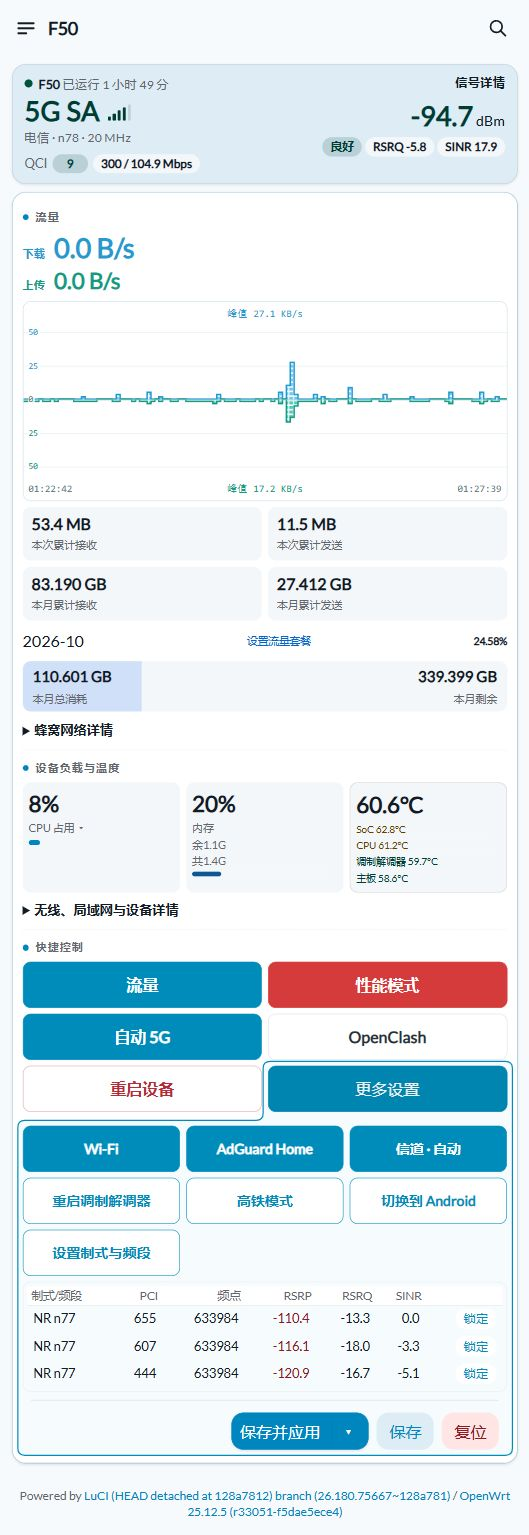
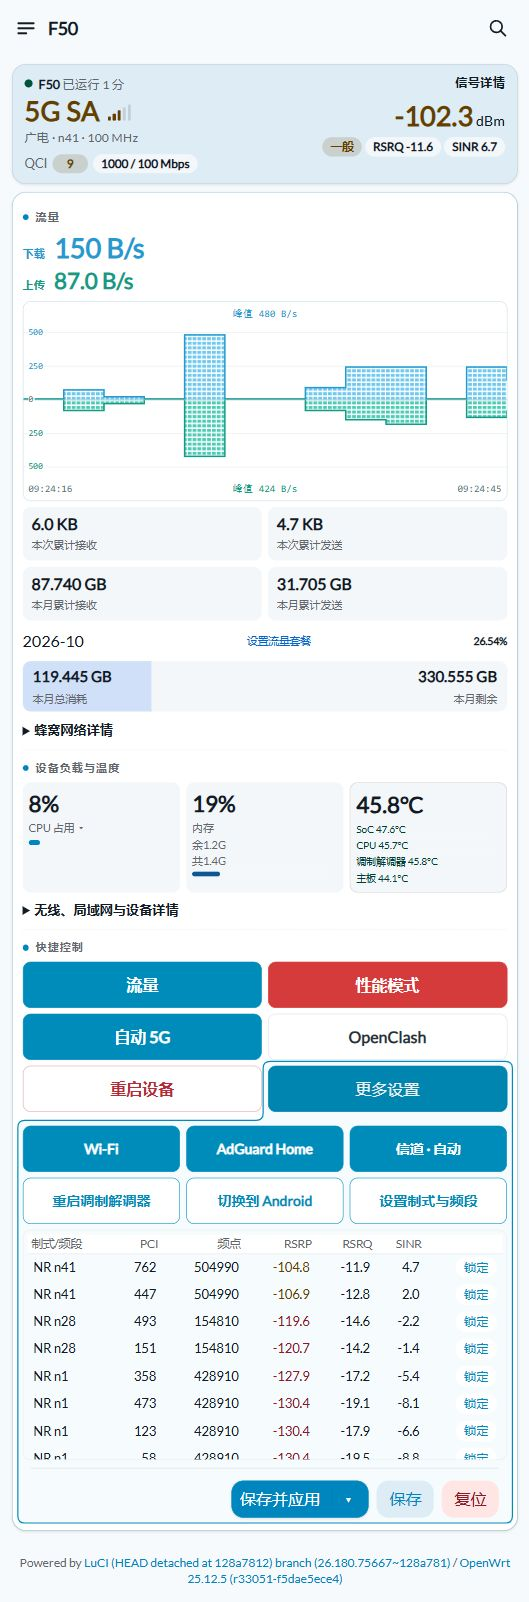
Remove high rail mode from dashboard and installation payload

diff --git a/extras/dashboard/home.js b/extras/dashboard/home.js
@@ -2,7 +2,6 @@
 'require view';
 'require rpc';
 'require f50adguard as F50AdGuard';
-'require f50highrail as F50HighRail';
 'require uci';
 'require mu300.common as M';
 'require f50quota5 as F50Quota';
@@ -103,7 +102,6 @@ return view.extend({
 			self._openclashDispose = F50OpenClash.mount(root);
 			self._powerDispose = F50Power.mount(root);
 			self._adguardDispose = F50AdGuard.mount(root);
-            self._highrailDispose = F50HighRail.mount(root);
 		});
 		/* LuCI poll.add() truncates intervals to whole seconds. Use a one-shot
 		 * timer so 1.5 s remains 1.5 s and slow requests never overlap. */
@@ -123,7 +121,6 @@ return view.extend({
 	unload: function() {
 		clearTimeout(this._refreshTimer);
         if(this._adguardDispose)this._adguardDispose();
-        if(this._highrailDispose)this._highrailDispose();
         if(this._actionsObserver)this._actionsObserver.disconnect();
         if(this._frameObserver)this._frameObserver.disconnect();
 		if (this._channelDispose) this._channelDispose();
@@ -265,7 +262,6 @@ return view.extend({
     <button class="mud-btn" id="mud-btn-adguard" aria-pressed="false">AdGuard Home</button>
     <button class="mud-btn" id="mud-btn-channel">信道设置</button>
     <button class="mud-btn warn" id="mud-btn-modem">${_('Restart modem')}</button>
-    <button class="mud-btn" id="mud-btn-highspeed" disabled aria-pressed="false">高铁模式</button>
 
   </div>
 </div>
@@ -363,7 +359,7 @@ return view.extend({
   var dcols=device.querySelector('.mud-cols'),leases=root.querySelector('#mud-leases'),android=root.querySelector('#mud-btn-android').parentNode;
   wrap([extra,dcols,leases,android],'无线、局域网与设备详情',dcols);
   var other=E('div',{id:'f50-other-controls',class:'mud-ctl f50-other-controls',hidden:true});quick.appendChild(other);
-  ['wifi','adguard','channel','modem','highspeed','android'].forEach(function(id){other.appendChild(root.querySelector('#mud-btn-'+id));});android.remove();
+  ['wifi','adguard','channel','modem','android'].forEach(function(id){other.appendChild(root.querySelector('#mud-btn-'+id));});android.remove();
   var otherBtn=root.querySelector('#mud-btn-other');otherBtn.setAttribute('aria-controls','f50-other-controls');
   otherBtn.onclick=function(){other.hidden=!other.hidden;otherBtn.setAttribute('aria-expanded',String(!other.hidden));root.classList.toggle('f50-more-open',!other.hidden);drawMoreFrame();};
   quick.classList.add('f50-controls-section');
@@ -434,7 +430,6 @@ return view.extend({
    @media(max-width:600px){.f50-home #mud-rate-chart{height:200px!important}.f50-home .f50-btop-label{font-size:10px}}
    .f50-home #mud-btn-other,.f50-home #mud-btn-other[aria-expanded=false],.f50-home #f50-other-controls>.mud-btn,.f50-home #f50-other-controls .mud-lockbtn{background:#fff!important;border-color:#238b45!important;color:#238b45!important;box-shadow:none}
    .f50-home #mud-btn-other[aria-expanded=true],.f50-home #f50-other-controls>.mud-btn.on,.f50-home #f50-other-controls>.mud-btn[aria-pressed=true],.f50-home #f50-other-controls>.mud-btn[aria-expanded=true],.f50-home #f50-other-controls .mud-lockbtn.locked{background:#238b45!important;border-color:#238b45!important;color:#fff!important}
-   .f50-home #f50-other-controls #mud-btn-highspeed.f50-highrail-switching{font-size:.65rem!important;white-space:nowrap}
    .f50-home .f50-rate-time-axis{position:absolute;left:9px;right:9px;bottom:2px;height:19px;display:flex;justify-content:space-between;align-items:center;border-top:1px solid #c8dfe7;color:#607985;font-size:10px;font-variant-numeric:tabular-nums}
    .f50-home .f50-rate-time-axis span{position:relative;padding-top:3px}.f50-home .f50-rate-time-axis span:before{content:'';position:absolute;top:0;height:3px;border-left:1px solid #94b2bf}.f50-home .f50-rate-time-axis span:last-child:before{right:0}
    .f50-home .f50-rate-svg{left:46px;width:calc(100% - 54px)}
@@ -475,7 +470,6 @@ return view.extend({
    .f50-home .f50-primary-controls>.mud-btn{font-size:1rem!important;font-weight:600!important}
    .f50-home #f50-other-controls>.mud-btn{font-size:clamp(.875rem,2.6vw,1rem)!important;font-weight:600!important}
    .f50-home #mud-btn-other{font-size:1rem!important}
-   .f50-home #f50-other-controls #mud-btn-highspeed.f50-highrail-switching{font-size:.75rem!important}
    .f50-home #mud-btn-other:after,.f50-home #f50-other-controls:before,.f50-home #f50-other-controls:after{display:none!important;content:none!important}
    .f50-home #f50-other-controls{padding:0;border:0;border-radius:0;margin-top:14px;background:transparent;overflow:visible}
    .f50-home .f50-controls-section{position:relative;isolation:isolate}
